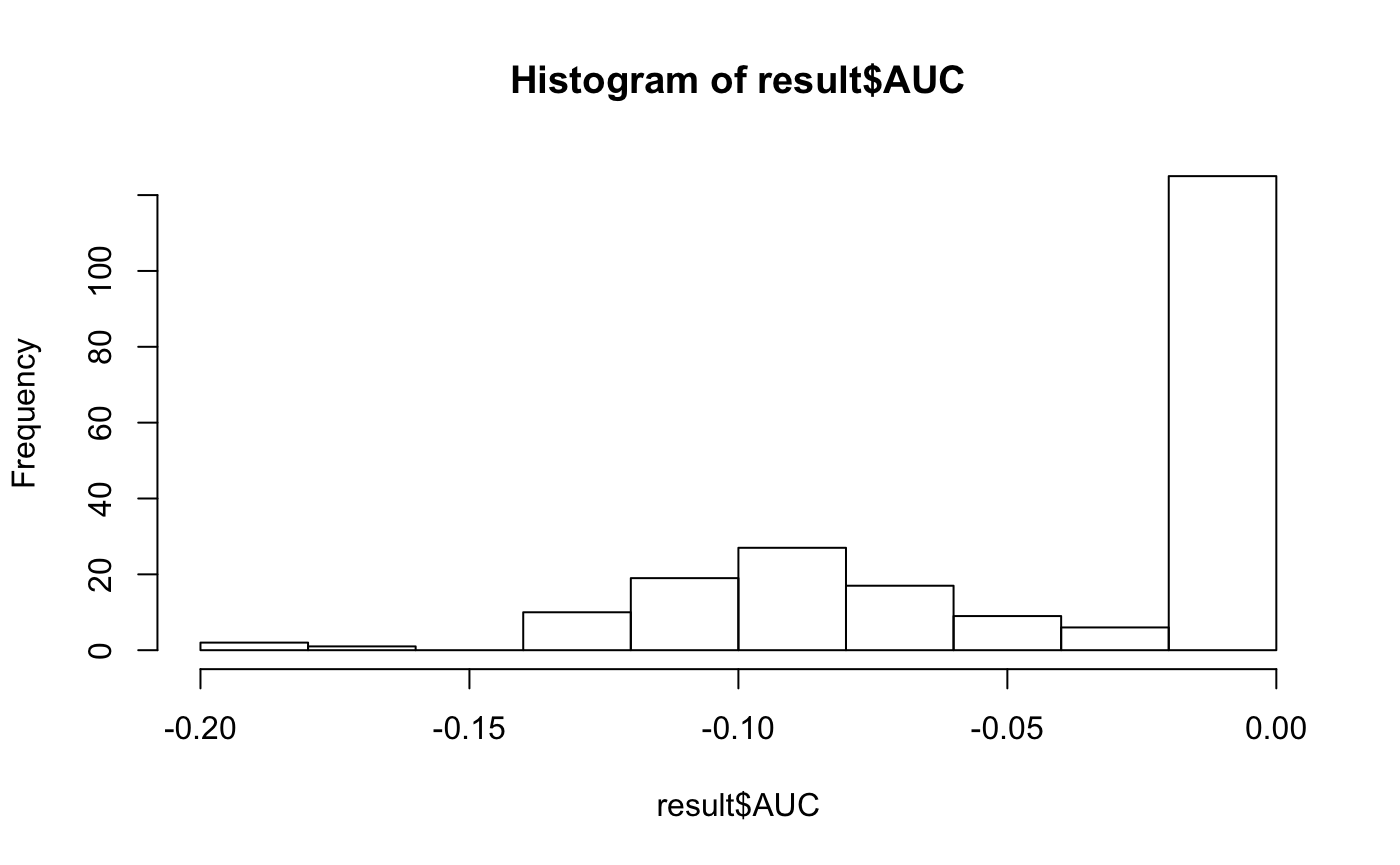
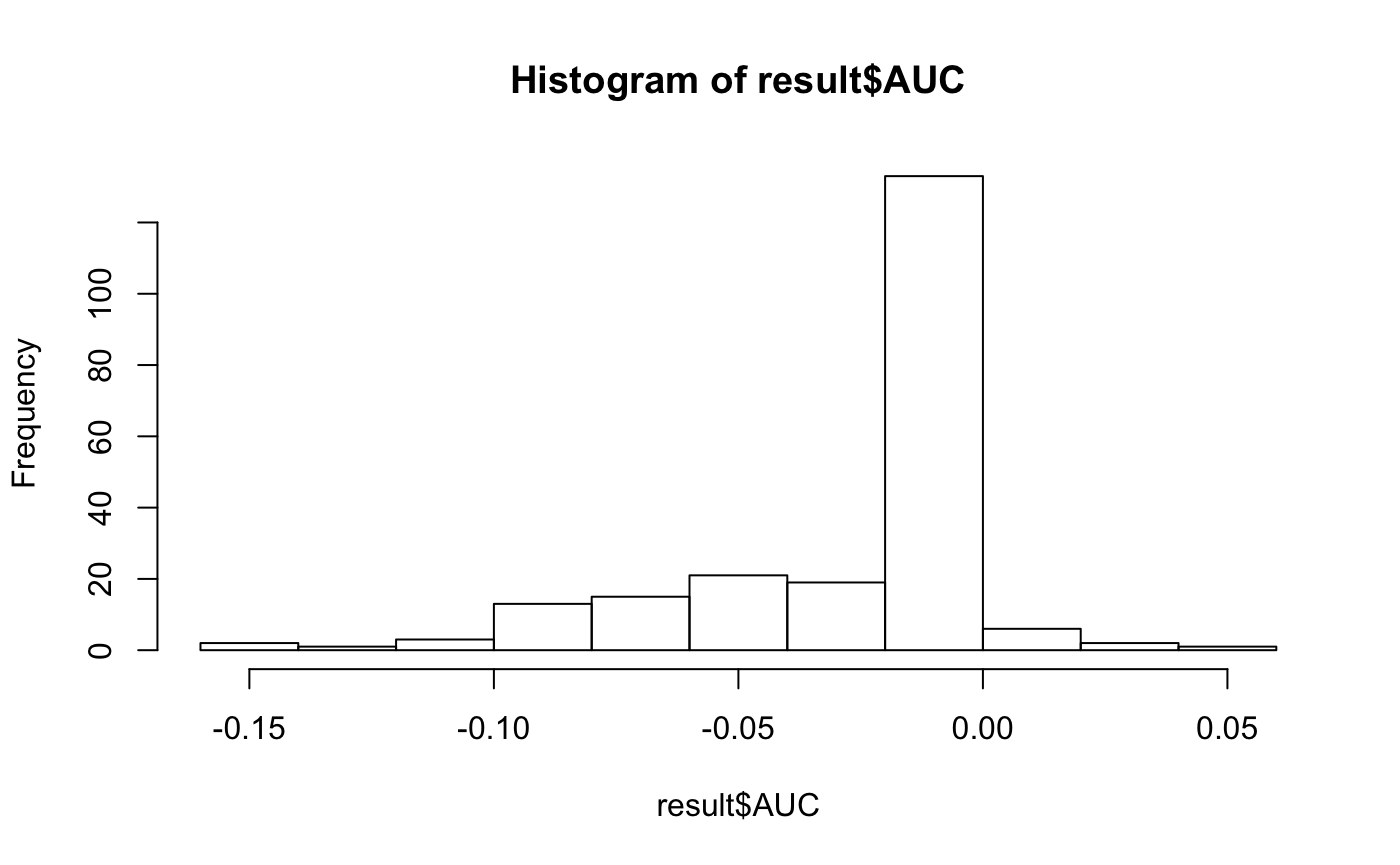
vignette

diff --git a/docs/articles/Searchlight_Analysis.html b/docs/articles/Searchlight_Analysis.html
@@ -98,8 +98,6 @@
 <div id="searchlight-analysis" class="section level2">
 <h2 class="hasAnchor">
 <a href="#searchlight-analysis" class="anchor"></a>Searchlight Analysis</h2>
-<pre><code>## Warning: replacing previous import 'neuroim2::centroids' by
-## 'sda::centroids' when loading 'rMVPA'</code></pre>
 <div id="generate-a-volumetric-dataset-with-100-observations-and-two-classes" class="section level3">
 <h3 class="hasAnchor">
 <a href="#generate-a-volumetric-dataset-with-100-observations-and-two-classes" class="anchor"></a>Generate a volumetric dataset with 100 observations and two classes</h3>
@@ -124,7 +122,7 @@
 ##   training observations:  80 
 ##   training levels:  a b 
 ##   no test observations. 
-##   training response:   Factor w/ 2 levels "a","b": 2 2 2 1 2 1 1 2 1 1 ... 
+##   training response:   Factor w/ 2 levels "a","b": 2 1 1 2 2 1 2 1 1 2 ... 
 ##   block var:   int [1:80] 1 2 3 4 1 2 3 4 1 2 ...</code></pre>
 </div>
 <div id="create-a-cross-validation-object-using-a-pre-defined-blocking-variable-" class="section level3">
@@ -168,7 +166,7 @@ model</code></pre></div>
 ##   training observations:  80 
 ##   training levels:  a b 
 ##   no test observations. 
-##   training response:   Factor w/ 2 levels "a","b": 2 2 2 1 2 1 1 2 1 1 ... 
+##   training response:   Factor w/ 2 levels "a","b": 2 1 1 2 2 1 2 1 1 2 ... 
 ##   block var:   int [1:80] 1 2 3 4 1 2 3 4 1 2 ...</code></pre>
 </div>
 <div id="run-a-standard-searchlight-analysis" class="section level3">
@@ -176,8 +174,8 @@ model</code></pre></div>
 <a href="#run-a-standard-searchlight-analysis" class="anchor"></a>Run a standard searchlight analysis</h3>
 <p>The output of <code>run_searchlight</code> is a list of image volumes containing performance measures for each spherical searchlight. For a two-class classification problem, there are three output measures: <code>Accuracy</code> and <code>AUC</code> (<code>AUC</code> has .5 subtracted from it, so that it is centered at 0 rather than .5). <code>Accuracy</code> is the raw cross-validated accuracy measure for each centroid and <code>AUC</code> is the area under the curve statistic. The <code>radius</code> argument indicates the radius in <code>mm</code> of the spherical searchlight. Finally, <code>method</code> indicates the searchlight scheme, which can be <code>standard</code> or <code>randomized</code>. See below for more information about the randomized searchlight.</p>
 <div class="sourceCode"><pre class="sourceCode r"><code class="sourceCode r">result &lt;-<span class="st"> </span><span class="kw"><a href="../reference/run_searchlight.html">run_searchlight</a></span>(model, <span class="dt">radius=</span><span class="dv">4</span>, <span class="dt">method=</span><span class="st">"standard"</span>)</code></pre></div>
-<pre><code>## INFO [2019-03-10 09:11:41] model is: sda_notune
-## INFO [2019-03-10 09:11:41] running standard searchlight with 4 radius</code></pre>
+<pre><code>## INFO [2019-03-10 09:19:14] model is: sda_notune
+## INFO [2019-03-10 09:19:14] running standard searchlight with 4 radius</code></pre>
 <pre><code>## Warning: package 'purrr' was built under R version 3.5.2</code></pre>
 <div class="sourceCode"><pre class="sourceCode r"><code class="sourceCode r">result</code></pre></div>
 <pre><code>## $Accuracy
@@ -204,16 +202,16 @@ model</code></pre></div>
 <a href="#run-a-randomized-searchlight-analysis" class="anchor"></a>Run a randomized searchlight analysis</h2>
 <p>A randomized searchlight analysis is an iterative procedure in which searchlight regions are sampled <em>without replacement</em> from the voxel set. A classification analysis is run for each region, and the result is recorded for the center voxel and <em>all other voxels in the region</em>. This is done for each of <code>niter</code> times, where each iteration involves an exhaustive sampling of the voxel set. The performance at each voxel is the average performance for the set of analyses in which the given voxel was included as a feature. The result will be similar to the standard searchlight procedure, but emphasizes the contribution of a given voxel across different local contexts to classification performance. This should in principle offer slightly better spatial localization than the standard searchlight. The randomized searchlight procedure can also be faster, because the total number of estimated models is a function of <code>nvoxels/radius * niter</code>, which will be smaller than <code>nvoxels</code> for many choices of <code>radius</code> and <code>niter</code>.</p>
 <div class="sourceCode"><pre class="sourceCode r"><code class="sourceCode r">result &lt;-<span class="st"> </span><span class="kw"><a href="../reference/run_searchlight.html">run_searchlight</a></span>(model, <span class="dt">radius=</span><span class="dv">4</span>, <span class="dt">method=</span><span class="st">"randomized"</span>, <span class="dt">niter=</span><span class="dv">8</span>)</code></pre></div>
-<pre><code>## INFO [2019-03-10 09:11:54] model is: sda_notune
-## INFO [2019-03-10 09:11:54] running randomized searchlight with 4 radius and 8 iterations
-## INFO [2019-03-10 09:11:54] searchlight iteration: 1
-## INFO [2019-03-10 09:11:54] searchlight iteration: 2
-## INFO [2019-03-10 09:11:55] searchlight iteration: 3
-## INFO [2019-03-10 09:11:55] searchlight iteration: 4
-## INFO [2019-03-10 09:11:55] searchlight iteration: 5
-## INFO [2019-03-10 09:11:56] searchlight iteration: 6
-## INFO [2019-03-10 09:11:56] searchlight iteration: 7
-## INFO [2019-03-10 09:11:56] searchlight iteration: 8</code></pre>
+<pre><code>## INFO [2019-03-10 09:19:28] model is: sda_notune
+## INFO [2019-03-10 09:19:28] running randomized searchlight with 4 radius and 8 iterations
+## INFO [2019-03-10 09:19:28] searchlight iteration: 1
+## INFO [2019-03-10 09:19:28] searchlight iteration: 2
+## INFO [2019-03-10 09:19:29] searchlight iteration: 3
+## INFO [2019-03-10 09:19:29] searchlight iteration: 4
+## INFO [2019-03-10 09:19:30] searchlight iteration: 5
+## INFO [2019-03-10 09:19:30] searchlight iteration: 6
+## INFO [2019-03-10 09:19:30] searchlight iteration: 7
+## INFO [2019-03-10 09:19:31] searchlight iteration: 8</code></pre>
 <pre><code>## number of models fit: 32</code></pre>
 <div class="sourceCode"><pre class="sourceCode r"><code class="sourceCode r">result</code></pre></div>
 <pre><code>## $Accuracy
@@ -241,19 +239,19 @@ model</code></pre></div>
 <div class="sourceCode"><pre class="sourceCode r"><code class="sourceCode r">svm_model &lt;-<span class="st"> </span><span class="kw"><a href="../reference/load_model.html">load_model</a></span>(<span class="st">"svmLinear"</span>) 
 model &lt;-<span class="st"> </span><span class="kw"><a href="../reference/mvpa_model.html">mvpa_model</a></span>(<span class="dt">model=</span>svm_model, <span class="dt">dataset=</span>dataset<span class="op">$</span>dataset, <span class="dt">design=</span>dataset<span class="op">$</span>design, <span class="dt">crossval=</span>crossval)
 result_svm &lt;-<span class="st"> </span><span class="kw"><a href="../reference/run_searchlight.html">run_searchlight</a></span>(model, <span class="dt">radius=</span><span class="dv">4</span>, <span class="dt">method=</span><span class="st">"randomized"</span>, <span class="dt">niter=</span><span class="dv">2</span>)</code></pre></div>
-<pre><code>## INFO [2019-03-10 09:11:58] model is: svmLinear
-## INFO [2019-03-10 09:11:58] running randomized searchlight with 4 radius and 2 iterations
-## INFO [2019-03-10 09:11:58] searchlight iteration: 1
-## INFO [2019-03-10 09:12:01] searchlight iteration: 2</code></pre>
+<pre><code>## INFO [2019-03-10 09:19:33] model is: svmLinear
+## INFO [2019-03-10 09:19:33] running randomized searchlight with 4 radius and 2 iterations
+## INFO [2019-03-10 09:19:33] searchlight iteration: 1
+## INFO [2019-03-10 09:19:35] searchlight iteration: 2</code></pre>
 <pre><code>## number of models fit: 8</code></pre>
 <p>Here we use a random forest classifier. To fix the tuning parameter <code>mtry</code> at a known value, we supply a <code>tune_grid</code> argument to the <code>mvpa_model</code> function. Here, we set <code>mtry</code> to <code>2</code>. Sinc ethere is only one value, it means that this parameter will be fixed. If we supply a grid of values, then the paramter will be tuned for each searchlight sample. Since parameter tuning is costly in terms of computing time, this is not a recommended approach unless one has a great deal of computing power or one is running the searchlight over a small mask.</p>
 <div class="sourceCode"><pre class="sourceCode r"><code class="sourceCode r">rf_model &lt;-<span class="st"> </span><span class="kw"><a href="../reference/load_model.html">load_model</a></span>(<span class="st">"rf"</span>) 
 model &lt;-<span class="st"> </span><span class="kw"><a href="../reference/mvpa_model.html">mvpa_model</a></span>(<span class="dt">model=</span>rf_model, <span class="dt">dataset=</span>dataset<span class="op">$</span>dataset, <span class="dt">design=</span>dataset<span class="op">$</span>design, <span class="dt">crossval=</span>crossval, <span class="dt">tune_grid=</span><span class="kw"><a href="https://www.rdocumentation.org/packages/base/topics/data.frame">data.frame</a></span>(<span class="dt">mtry=</span><span class="dv">2</span>))
 result_rf &lt;-<span class="st"> </span><span class="kw"><a href="../reference/run_searchlight.html">run_searchlight</a></span>(model, <span class="dt">radius=</span><span class="dv">4</span>, <span class="dt">method=</span><span class="st">"randomized"</span>, <span class="dt">niter=</span><span class="dv">2</span>)</code></pre></div>
-<pre><code>## INFO [2019-03-10 09:12:02] model is: rf
-## INFO [2019-03-10 09:12:02] running randomized searchlight with 4 radius and 2 iterations
-## INFO [2019-03-10 09:12:02] searchlight iteration: 1
-## INFO [2019-03-10 09:12:04] searchlight iteration: 2</code></pre>
+<pre><code>## INFO [2019-03-10 09:19:36] model is: rf
+## INFO [2019-03-10 09:19:36] running randomized searchlight with 4 radius and 2 iterations
+## INFO [2019-03-10 09:19:36] searchlight iteration: 1
+## INFO [2019-03-10 09:19:37] searchlight iteration: 2</code></pre>
 <pre><code>## number of models fit: 8</code></pre>
 <p>Here we specify a range of values for the <code>mtry</code> tuning parameter. In this case, by supplying the <code>tune_reps</code> argument to <code>mvpa_model</code> we control the number of resamples used to tune the model parameters. The default is 10, but here we speed up execution time by reducing it to 2. In general, more resamples are required to reliably estimate optimal tuning parameters. This means for a whole-brain searchlight, parameter tuning is <strong>generally</strong> impractical. This is why the classiifer <code>sda_notune</code> is a good choice for searchlight analyses, since it “works well” with default tuning parameters.</p>
 <div class="sourceCode"><pre class="sourceCode r"><code class="sourceCode r">grid &lt;-<span class="st"> </span><span class="kw"><a href="https://www.rdocumentation.org/packages/base/topics/data.frame">data.frame</a></span>(<span class="dt">mtry=</span><span class="kw"><a href="https://www.rdocumentation.org/packages/base/topics/c">c</a></span>(<span class="dv">2</span>,<span class="dv">4</span>,<span class="dv">6</span>,<span class="dv">8</span>))

diff --git a/docs/articles/Regional_Analysis.html b/docs/articles/Regional_Analysis.html
@@ -98,8 +98,6 @@
 <div id="mvpa-analysis-on-regions-of-interest" class="section level2">
 <h2 class="hasAnchor">
 <a href="#mvpa-analysis-on-regions-of-interest" class="anchor"></a>MVPA Analysis on Regions of Interest</h2>
-<pre><code>## Warning: replacing previous import 'neuroim2::centroids' by
-## 'sda::centroids' when loading 'rMVPA'</code></pre>
 <p>If we have one or more pre-defined regions of interests (ROIs) we can use <code>rMVPA</code> to run a clasisifation/regression model in each region, yielding peformance measures for each region.</p>
 <div id="generate-a-volumetric-dataset-with-100-observations-and-two-classes" class="section level3">
 <h3 class="hasAnchor">
@@ -125,7 +123,7 @@
 ##   training observations:  80 
 ##   training levels:  a b 
 ##   no test observations. 
-##   training response:   Factor w/ 2 levels "a","b": 1 2 2 2 1 1 1 1 2 2 ... 
+##   training response:   Factor w/ 2 levels "a","b": 1 1 2 1 2 1 1 1 2 1 ... 
 ##   block var:   int [1:80] 1 2 3 4 1 2 3 4 1 2 ...</code></pre>
 <p>```</p>
 <p>Now we generate an arbitrary set of ROIs by assigning each voxel in the input mask a value ranging from 1 to 3.</p>
@@ -136,7 +134,7 @@ region_mask &lt;-<span class="st"> </span>neuroim2<span class="op">::</span><spa
 <span class="kw"><a href="https://www.rdocumentation.org/packages/base/topics/table">table</a></span>(region_mask)</code></pre></div>
 <pre><code>## region_mask
 ##   0   1   2   3 
-## 123  42  27  24</code></pre>
+## 123  31  26  36</code></pre>
 <p>The <code>region_mask</code> volume now defines a set of three ROIs where each ROI is defined by an integer value. Next, we can run a classification/regression model within each ROI using the <code>run_regional</code> function:</p>
 <div class="sourceCode"><pre class="sourceCode r"><code class="sourceCode r">mod &lt;-<span class="st"> </span><span class="kw"><a href="../reference/load_model.html">load_model</a></span>(<span class="st">"sda"</span>)
 tune_grid &lt;-<span class="st"> </span><span class="kw"><a href="https://www.rdocumentation.org/packages/base/topics/data.frame">data.frame</a></span>(<span class="dt">lambda=</span>.<span class="dv">01</span>, <span class="dt">diagonal=</span><span class="ot">FALSE</span>)
@@ -149,27 +147,27 @@ res &lt;-<span class="st"> </span><span class="kw"><a href="../reference/run_reg
 <pre><code>## # A tibble: 3 x 3
 ##   ROINUM Accuracy     AUC
 ##    &lt;int&gt;    &lt;dbl&gt;   &lt;dbl&gt;
-## 1      1    0.475 -0.0334
-## 2      2    0.588  0.127 
-## 3      3    0.488 -0.0438</code></pre>
+## 1      1    0.475 -0.0894
+## 2      2    0.412 -0.109 
+## 3      3    0.562  0.0769</code></pre>
 <p>To get fine-grained information, the individual predictions for each ROI and trial are included in <code>prediction_table</code>:</p>
 <div class="sourceCode"><pre class="sourceCode r"><code class="sourceCode r"><span class="kw"><a href="https://www.rdocumentation.org/packages/base/topics/print">print</a></span>(res<span class="op">$</span>prediction_table)</code></pre></div>
 <pre><code>## Source: local data frame [240 x 7]
 ## Groups: &lt;by row&gt;
 ## 
 ## # A tibble: 240 x 7
-##    ROINUM observed pobserved predicted correct    prob_a    prob_b
-##  *  &lt;int&gt; &lt;fct&gt;        &lt;dbl&gt; &lt;chr&gt;     &lt;lgl&gt;       &lt;dbl&gt;     &lt;dbl&gt;
-##  1      1 a        1.000     a         TRUE    1.000     0.0000276
-##  2      1 b        1.000     b         TRUE    0.000043  1.000    
-##  3      1 b        0.000941  a         FALSE   0.999     0.000941 
-##  4      1 b        0.995     b         TRUE    0.00503   0.995    
-##  5      1 a        0         b         FALSE   0         1        
-##  6      1 a        1.000     a         TRUE    1.000     0.0000005
-##  7      1 a        0.999     a         TRUE    0.999     0.000532 
-##  8      1 a        0.0000001 b         FALSE   0.0000001 1.000    
-##  9      1 b        1         b         TRUE    0         1        
-## 10      1 b        1.000     b         TRUE    0.0000001 1.000    
+##    ROINUM observed pobserved predicted correct  prob_a   prob_b
+##  *  &lt;int&gt; &lt;fct&gt;        &lt;dbl&gt; &lt;chr&gt;     &lt;lgl&gt;     &lt;dbl&gt;    &lt;dbl&gt;
+##  1      1 a          0.856   a         TRUE    0.856   0.144   
+##  2      1 a          0.978   a         TRUE    0.978   0.0219  
+##  3      1 b          0.0124  a         FALSE   0.988   0.0124  
+##  4      1 a          0.590   a         TRUE    0.590   0.410   
+##  5      1 b          0.00651 a         FALSE   0.993   0.00651 
+##  6      1 a          1.000   a         TRUE    1.000   0.000106
+##  7      1 a          0.0221  b         FALSE   0.0221  0.978   
+##  8      1 a          0.132   b         FALSE   0.132   0.868   
+##  9      1 b          0.0159  a         FALSE   0.984   0.0159  
+## 10      1 a          0.00283 b         FALSE   0.00283 0.997   
 ## # … with 230 more rows</code></pre>
 </div>
 </div>

diff --git a/docs/articles/CrossValidation.html b/docs/articles/CrossValidation.html
@@ -98,8 +98,6 @@
 <div id="cross-validation-approaches" class="section level2">
 <h2 class="hasAnchor">
 <a href="#cross-validation-approaches" class="anchor"></a>Cross-Validation Approaches</h2>
-<pre><code>## Warning: replacing previous import 'neuroim2::centroids' by
-## 'sda::centroids' when loading 'rMVPA'</code></pre>
 <p>Cross-validation is used in <code>rMVPA</code> to evaluate the performance of a trained classifier. In general this is achieved by splitting the data into training and tests sets, fitting a model on the training data and then evaluating its performance on the test set. The methods described below are used for cases where one does not have a predfined “test set”, but rather wants examine test set performance by repeatedly analyzing the training data itself.</p>
 <div id="blocked-cross-validation" class="section level3">
 <h3 class="hasAnchor">
@@ -120,12 +118,12 @@
 ## 4 &lt;chr [400]&gt; &lt;chr [100]&gt; &lt;S3: resample&gt; &lt;S3: resample&gt; 4    
 ## 5 &lt;chr [400]&gt; &lt;chr [100]&gt; &lt;S3: resample&gt; &lt;S3: resample&gt; 5</code></pre>
 <p>Notice that the <code>data.frame</code> contains five variable: <code>ytrain</code>, <code>ytest</code>, <code>train</code>, <code>test</code> and <code>.id</code> which contains the training responses, the test responses, the training data, the test data, and a integer id variable, respectively. The first four variables are <code>list</code>elements because they contain vector- or matrix- valued elements in each cell. Indeed, the <code>train</code> and <code>test</code> variables are S3 classes of type <code>resample</code> from the <code>modelr</code> package. For example, to access training data for the first cross-validation fold, we can do the following:</p>
-<pre><code>##             x1         x2          x3
-## 101 -0.3177849  1.2150901 -0.09554074
-## 102  1.0081599  1.4386464  0.12650666
-## 103  1.0138472 -0.7191919 -0.75792208
-## 104  0.9517541 -0.1756540  0.37962831
-## 105  0.5041084 -0.4435597 -0.05094041</code></pre>
+<pre><code>##             x1         x2         x3
+## 101 -0.6591529  1.2131672  0.8189680
+## 102 -0.5174149 -1.0650987  0.9259753
+## 103 -0.1368315  0.2409265 -0.8156254
+## 104  1.0005651 -0.6453403 -1.5609847
+## 105  0.5483958  2.2218989 -0.7368365</code></pre>
 <p>As a toy example, below we loop through the cross-validation sets using the <code>dplyr</code> <code>rowwise</code> function, fit an <code>sda</code> model and put the fitted model into a new data.frame.</p>
 </div>
 <div id="bootstrap-blocked-cross-validation" class="section level3">
@@ -139,16 +137,16 @@
 <pre><code>## # A tibble: 100 x 5
 ##    ytrain      ytest       train          test           .id  
 ##    &lt;list&gt;      &lt;list&gt;      &lt;list&gt;         &lt;list&gt;         &lt;chr&gt;
-##  1 &lt;chr [245]&gt; &lt;chr [400]&gt; &lt;S3: resample&gt; &lt;S3: resample&gt; 001  
+##  1 &lt;chr [243]&gt; &lt;chr [400]&gt; &lt;S3: resample&gt; &lt;S3: resample&gt; 001  
 ##  2 &lt;chr [251]&gt; &lt;chr [400]&gt; &lt;S3: resample&gt; &lt;S3: resample&gt; 002  
-##  3 &lt;chr [258]&gt; &lt;chr [400]&gt; &lt;S3: resample&gt; &lt;S3: resample&gt; 003  
-##  4 &lt;chr [251]&gt; &lt;chr [400]&gt; &lt;S3: resample&gt; &lt;S3: resample&gt; 004  
-##  5 &lt;chr [244]&gt; &lt;chr [400]&gt; &lt;S3: resample&gt; &lt;S3: resample&gt; 005  
-##  6 &lt;chr [239]&gt; &lt;chr [400]&gt; &lt;S3: resample&gt; &lt;S3: resample&gt; 006  
-##  7 &lt;chr [257]&gt; &lt;chr [400]&gt; &lt;S3: resample&gt; &lt;S3: resample&gt; 007  
-##  8 &lt;chr [236]&gt; &lt;chr [400]&gt; &lt;S3: resample&gt; &lt;S3: resample&gt; 008  
-##  9 &lt;chr [252]&gt; &lt;chr [400]&gt; &lt;S3: resample&gt; &lt;S3: resample&gt; 009  
-## 10 &lt;chr [251]&gt; &lt;chr [400]&gt; &lt;S3: resample&gt; &lt;S3: resample&gt; 010  
+##  3 &lt;chr [245]&gt; &lt;chr [400]&gt; &lt;S3: resample&gt; &lt;S3: resample&gt; 003  
+##  4 &lt;chr [245]&gt; &lt;chr [400]&gt; &lt;S3: resample&gt; &lt;S3: resample&gt; 004  
+##  5 &lt;chr [249]&gt; &lt;chr [400]&gt; &lt;S3: resample&gt; &lt;S3: resample&gt; 005  
+##  6 &lt;chr [249]&gt; &lt;chr [400]&gt; &lt;S3: resample&gt; &lt;S3: resample&gt; 006  
+##  7 &lt;chr [250]&gt; &lt;chr [400]&gt; &lt;S3: resample&gt; &lt;S3: resample&gt; 007  
+##  8 &lt;chr [249]&gt; &lt;chr [400]&gt; &lt;S3: resample&gt; &lt;S3: resample&gt; 008  
+##  9 &lt;chr [245]&gt; &lt;chr [400]&gt; &lt;S3: resample&gt; &lt;S3: resample&gt; 009  
+## 10 &lt;chr [239]&gt; &lt;chr [400]&gt; &lt;S3: resample&gt; &lt;S3: resample&gt; 010  
 ## # … with 90 more rows</code></pre>
 </div>
 <div id="repeated-split-half-resampling-over-blocks" class="section level3">

diff --git a/docs/articles/FeatureSelection.html b/docs/articles/FeatureSelection.html
@@ -98,8 +98,6 @@
 <div id="feature-selection" class="section level2">
 <h2 class="hasAnchor">
 <a href="#feature-selection" class="anchor"></a>Feature Selection</h2>
-<pre><code>## Warning: replacing previous import 'neuroim2::centroids' by
-## 'sda::centroids' when loading 'rMVPA'</code></pre>
 <p>Feature selection is used to select a subset of variables to include into a classification or regression model. This can be useful when one has many irrelevant features and one wants to quickly reduce the problem to a more manageable size. Alternatively, if one wants to impose a limit on the total number of included features (say, 1000) across a set of classification tasks (e.g. over a group of subjects) then it can be useful to use a feature selection before running the analysis. Note that to avoid bias, feature selection must be incorported into cross-validation procedure such that feature selection is carried out for each training fold. This is automatically done in the analysis pileplines provided in <code>rMVPA</code>.</p>
 <div id="creating-a-feature_selector-object" class="section level3">
 <h3 class="hasAnchor">
